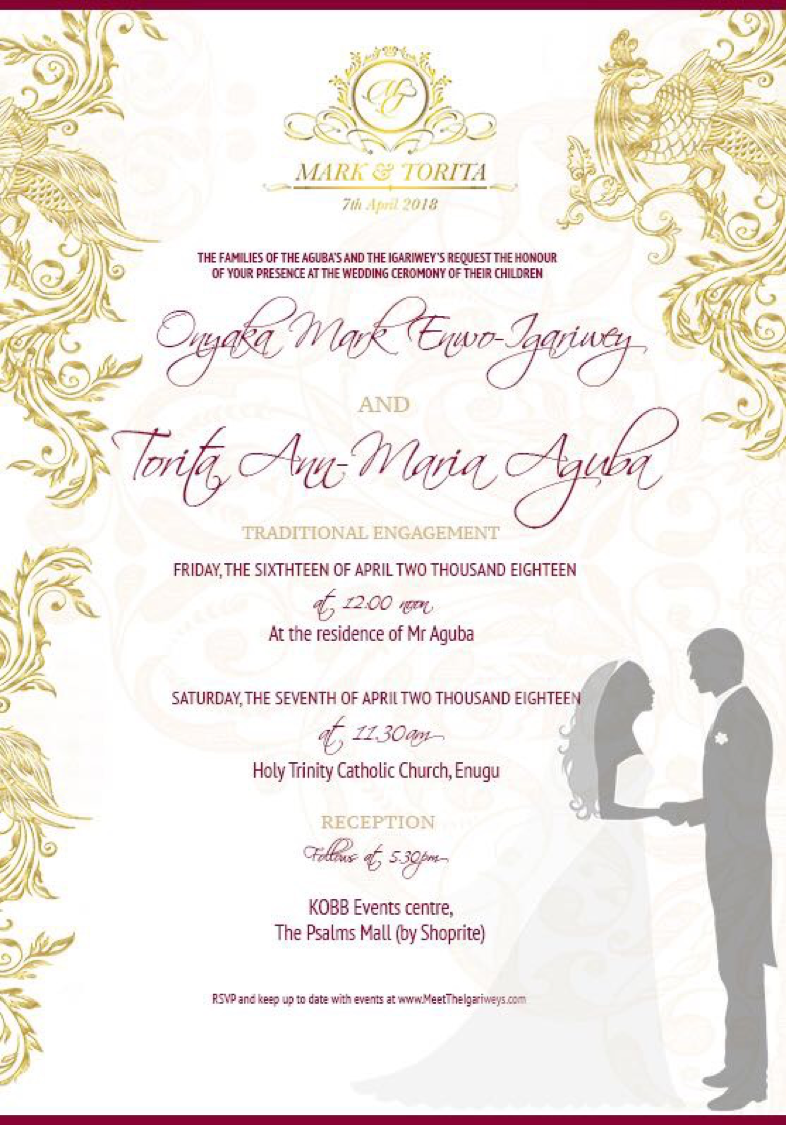
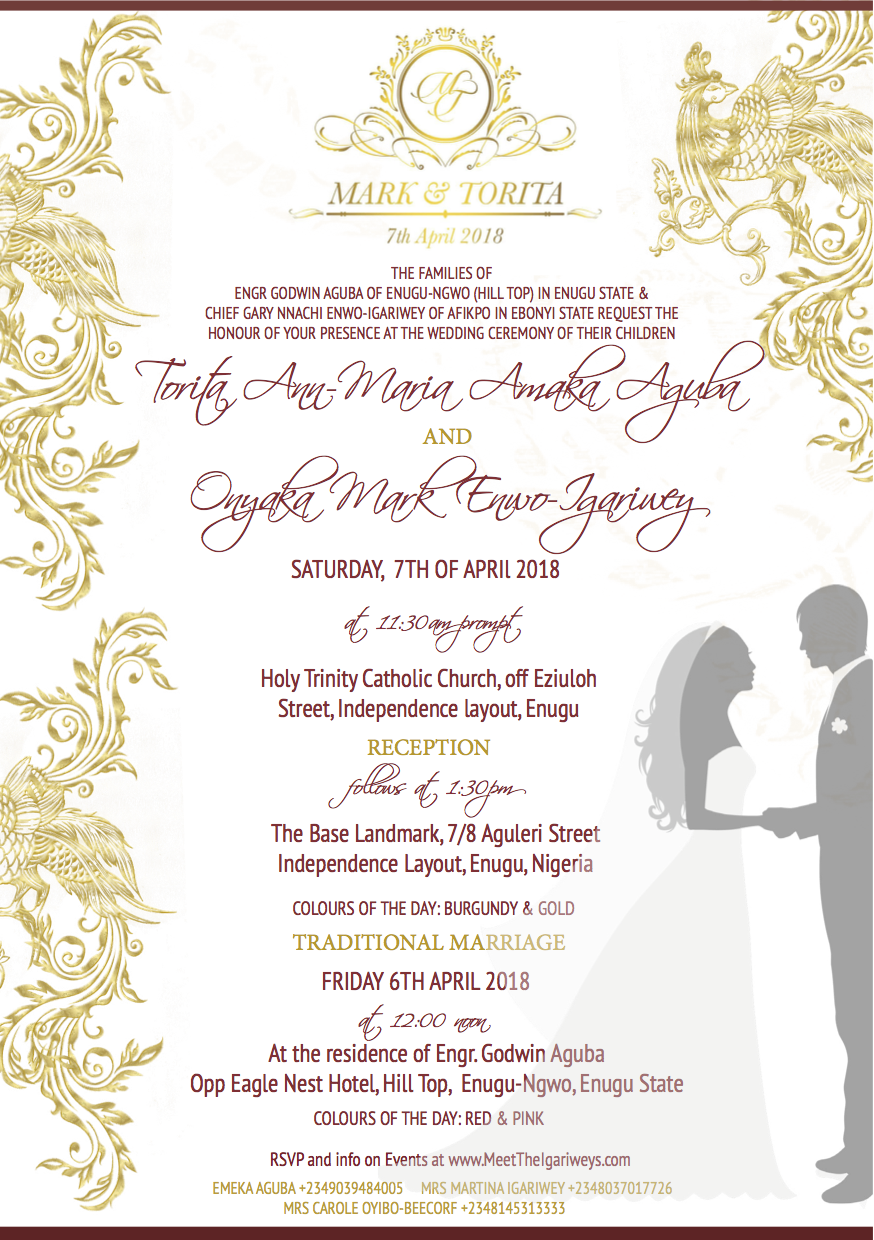
small update

diff --git a/vertical-timeline/schedule.html b/vertical-timeline/schedule.html
@@ -78,6 +78,7 @@
                      <h2>Traditional Wedding</h2>
                      <p>At the residence of Engr. Godwin Aguba.
                         Opp Eagle Nest Hotel, Hill Top, Enugu-Ngwo, Enugu State.</p>
+                        <p>Time: 12 noon prompt.</p>
 
                         <p>Colours of the day: Red and Pink.</p>
                      <span class="cd-date">April 06</span>
@@ -85,16 +86,27 @@
                </div> <!-- cd-timeline-block -->
 
                <div class="cd-timeline-block">
-                  <div class="cd-timeline-img cd-movie">
-                     <img src="img/church.svg" alt="Church">
+                  <div class="cd-timeline-img cd-wedding">
+                     <img src="img/brideandgroom.jpg">
                   </div> <!-- cd-timeline-img -->
 
                   <div class="cd-timeline-content">
                      <h2>White Wedding</h2>
                      <p>At Holy Trinity Catholic Church, off Eziuloh Street, Independence layout, Enugu
-                     Time: 11.30am prompt.
+                     Time: 11.30am prompt.</p>
 
-                     Reception follows after church service at KOBB Events Centre, The Psalms Mall (by Shoprite) Enugu.</p>
+                     <span class="cd-date">April 07</span>
+                  </div> <!-- cd-timeline-content -->
+               </div>
+
+               <div class="cd-timeline-block">
+                  <div class="cd-timeline-img cd-picture">
+                     <img src="img/church.svg" alt="Church">
+                  </div> <!-- cd-timeline-img -->
+                  <div class="cd-timeline-content">
+                     <h2>Reception</h2>
+                     <p>At The Base Landmark, 7/8 Aguleri Street, Independence layout, Enugu, Nigeria.
+                     Time: 1.30pm.  </p>
 
                      <p>Colours of the day: Burgundy and Gold.</p>
                      <span class="cd-date">April 07</span>

diff --git a/_site/index.html b/_site/index.html
@@ -115,8 +115,7 @@
          <section id="proposal_mark" class="main style2 right fullscreen">
             <div class="content box style2" style="background-color: rgba(255, 255, 255, 0.7);">
                <header><h2>His Story</h2></header>
-               <p style="font-size:85%">By our second date I knew she was the one. From the beginning we clicked. Her smile, she's down to earth and so loving. The time came when I knew I was going to propose but didn't know how or when.
-               I found the perfect ring for her and worked with one of my close friends to keep it a secret. Now I was just waiting for the right moment and the perfect opportunity came about when she planned my birthday. I'm so glad everything worked out perfectly. </p>
+               <p style="font-size:85%">By our second date I knew she was the one. From the beginning we clicked. Her smile, she's down to earth and so loving. The time came when I knew I was going to propose but didn't know how or when. I found the perfect ring for her and worked with one of my close friends to keep it a secret. Now I was just waiting for the right moment and the perfect opportunity came about when she planned my birthday. I'm so glad everything worked out perfectly. </p>
             </div>
          </section>
 
@@ -169,7 +168,7 @@
                </p>
 
                <p> <strong>Traditional Marriage:</strong></p>
-               <p>Our triditional Enugu marriage will take place on <strong>Friday 6th of April 2018.</strong>
+               <p>Our traditional Enugu marriage will take place on <strong>Friday 6th of April 2018, at 12 noon.</strong>
                At the residence of Engr. Godwin Aguba.
                Opp Eagle Nest Hotel, Hill Top, Enugu-Ngwo, Enugu State.<em> Colours of the day: Red and Pink.</em>
 

diff --git a/index.html b/index.html
@@ -115,8 +115,7 @@
          <section id="proposal_mark" class="main style2 right fullscreen">
             <div class="content box style2" style="background-color: rgba(255, 255, 255, 0.7);">
                <header><h2>His Story</h2></header>
-               <p style="font-size:85%">By our second date I knew she was the one. From the beginning we clicked. Her smile, she's down to earth and so loving. The time came when I knew I was going to propose but didn't know how or when.
-               I found the perfect ring for her and worked with one of my close friends to keep it a secret. Now I was just waiting for the right moment and the perfect opportunity came about when she planned my birthday. I'm so glad everything worked out perfectly. </p>
+               <p style="font-size:85%">By our second date I knew she was the one. From the beginning we clicked. Her smile, she's down to earth and so loving. The time came when I knew I was going to propose but didn't know how or when. I found the perfect ring for her and worked with one of my close friends to keep it a secret. Now I was just waiting for the right moment and the perfect opportunity came about when she planned my birthday. I'm so glad everything worked out perfectly. </p>
             </div>
          </section>
 
@@ -169,7 +168,7 @@
                </p>
 
                <p> <strong>Traditional Marriage:</strong></p>
-               <p>Our triditional Enugu marriage will take place on <strong>Friday 6th of April 2018.</strong>
+               <p>Our traditional Enugu marriage will take place on <strong>Friday 6th of April 2018, at 12 noon.</strong>
                At the residence of Engr. Godwin Aguba.
                Opp Eagle Nest Hotel, Hill Top, Enugu-Ngwo, Enugu State.<em> Colours of the day: Red and Pink.</em>
 

diff --git a/wedding_party.html b/wedding_party.html
@@ -73,7 +73,7 @@
 				<div class="row images">
 					<div class="3u"><a href="images/weddingparty/IMG_0916.png" class="image full r"><img src="images/weddingparty/IMG_0916.png" title="Adesua (Maid of Honour)" alt="" /></a></div>
 					<div class="3u"><a href="images/weddingparty/IMG_0906.png" class="image full r"><img src="images/weddingparty/IMG_0906.png" title="Kareen" alt="" /></a></div>
-					<div class="3u"><a href="images/weddingparty/IMG_0915.png" class="image full r"><img src="images/weddingparty/IMG_0915.png" title="Rita" alt="" /></a></div>
+					<div class="3u"><a href="images/weddingparty/IMG_1410.png" class="image full r"><img src="images/weddingparty/IMG_1410.png" title="Efua" alt="" /></a></div>
 					<div class="3u"><a href="images/weddingparty/IMG_0902.png" class="image full r"><img src="images/weddingparty/IMG_0902.png" title="Emjay" alt="" /></a></div>
 				</div>
 			

diff --git a/invite.html b/invite.html
@@ -62,7 +62,7 @@
          <section id="invite" class="main style3 dark">
             <div class="container small gallery">
             <div class="images">
-               <div class=""><a href="images/weddingphotos/comming_soon.png" class="image full r"><img src="images/weddingphotos/comming_soon.png" title="Official invite" alt="" /></a></div>
+               <div class=""><a href="images/weddingphotos/comming_soon.png" class="image full r"><img src="images/weddingphotos/IMG_0924.png" title="Official invite" alt="" /></a></div>
             </div>
 
             </div>

diff --git a/vertical-timeline/css/style.css b/vertical-timeline/css/style.css
@@ -774,8 +774,8 @@ Main components
 .cd-timeline-img.cd-picture {
   background: #75ce66;
 }
-.cd-timeline-img.cd-movie {
-  background: #c03b44;
+.cd-timeline-img.cd-wedding {
+  background: gray;
 }
 .cd-timeline-img.cd-location {
   background: #f0ca45;
